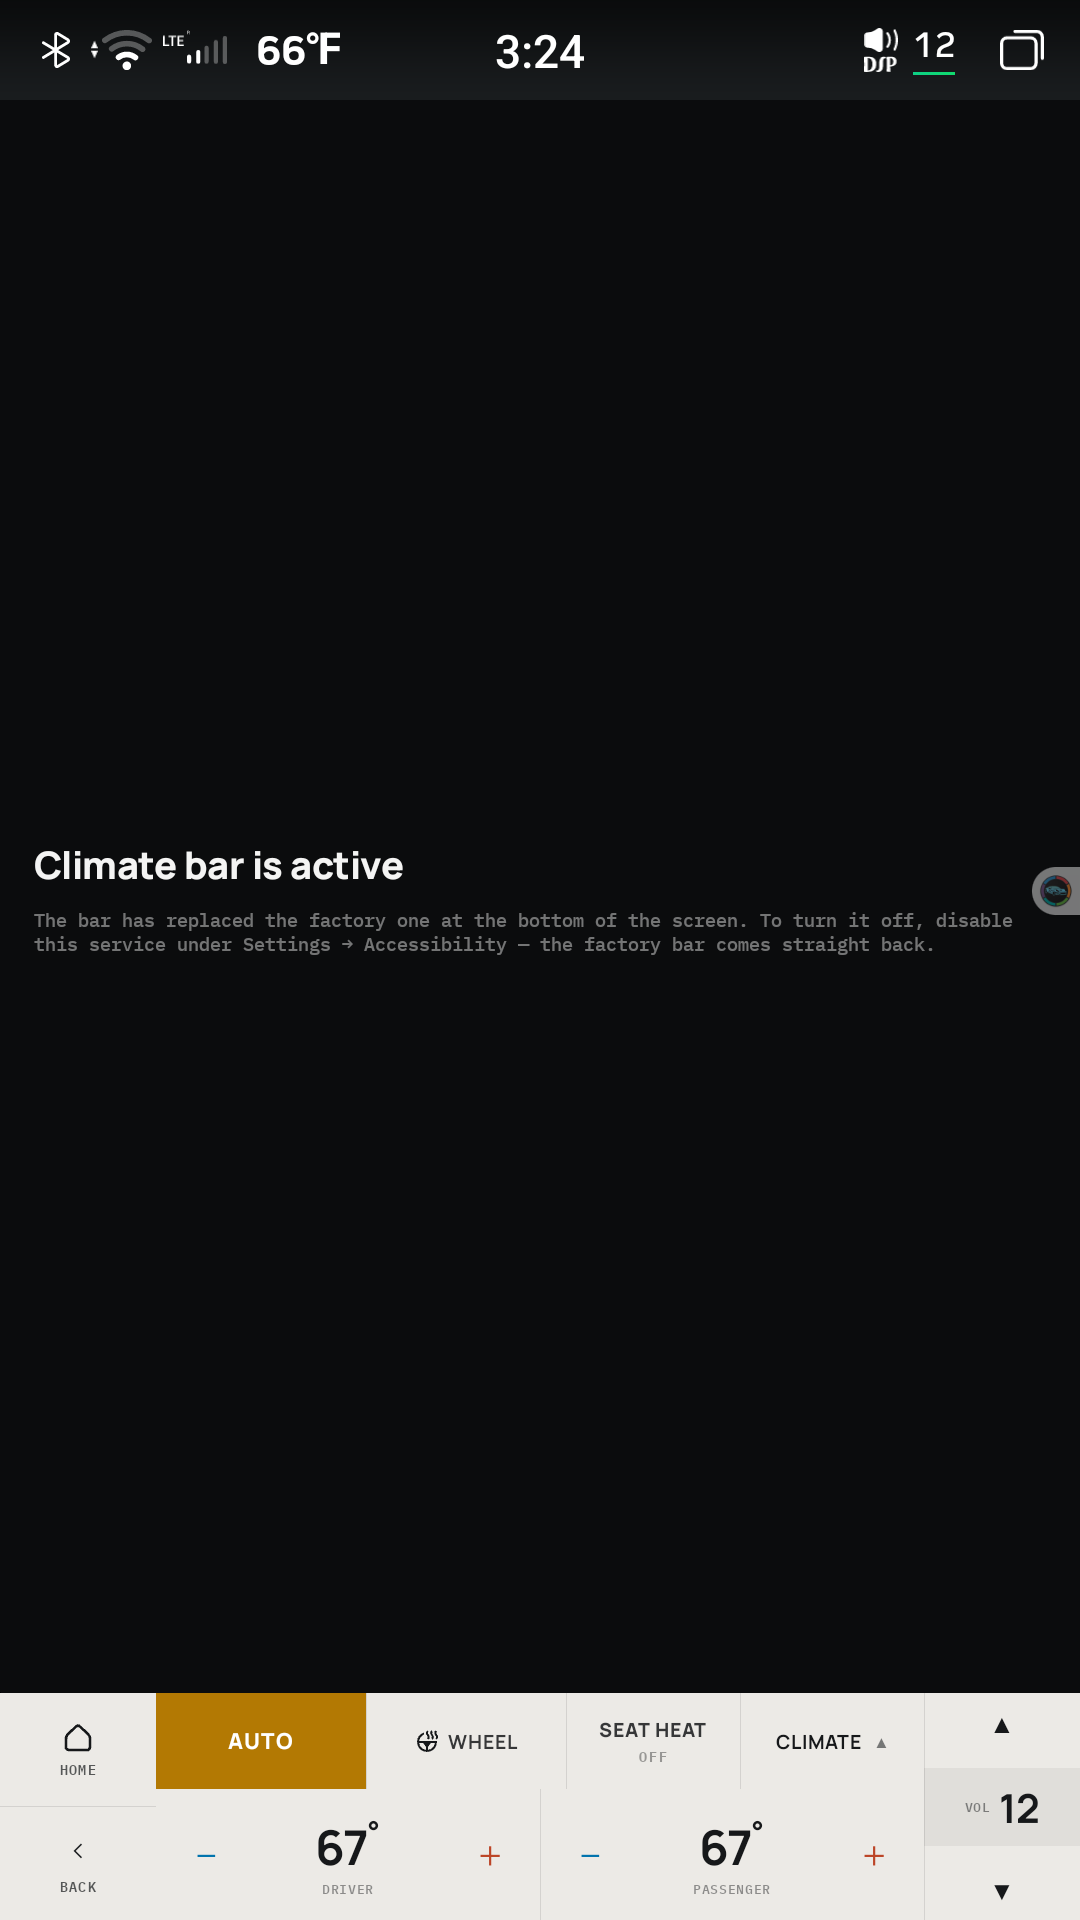
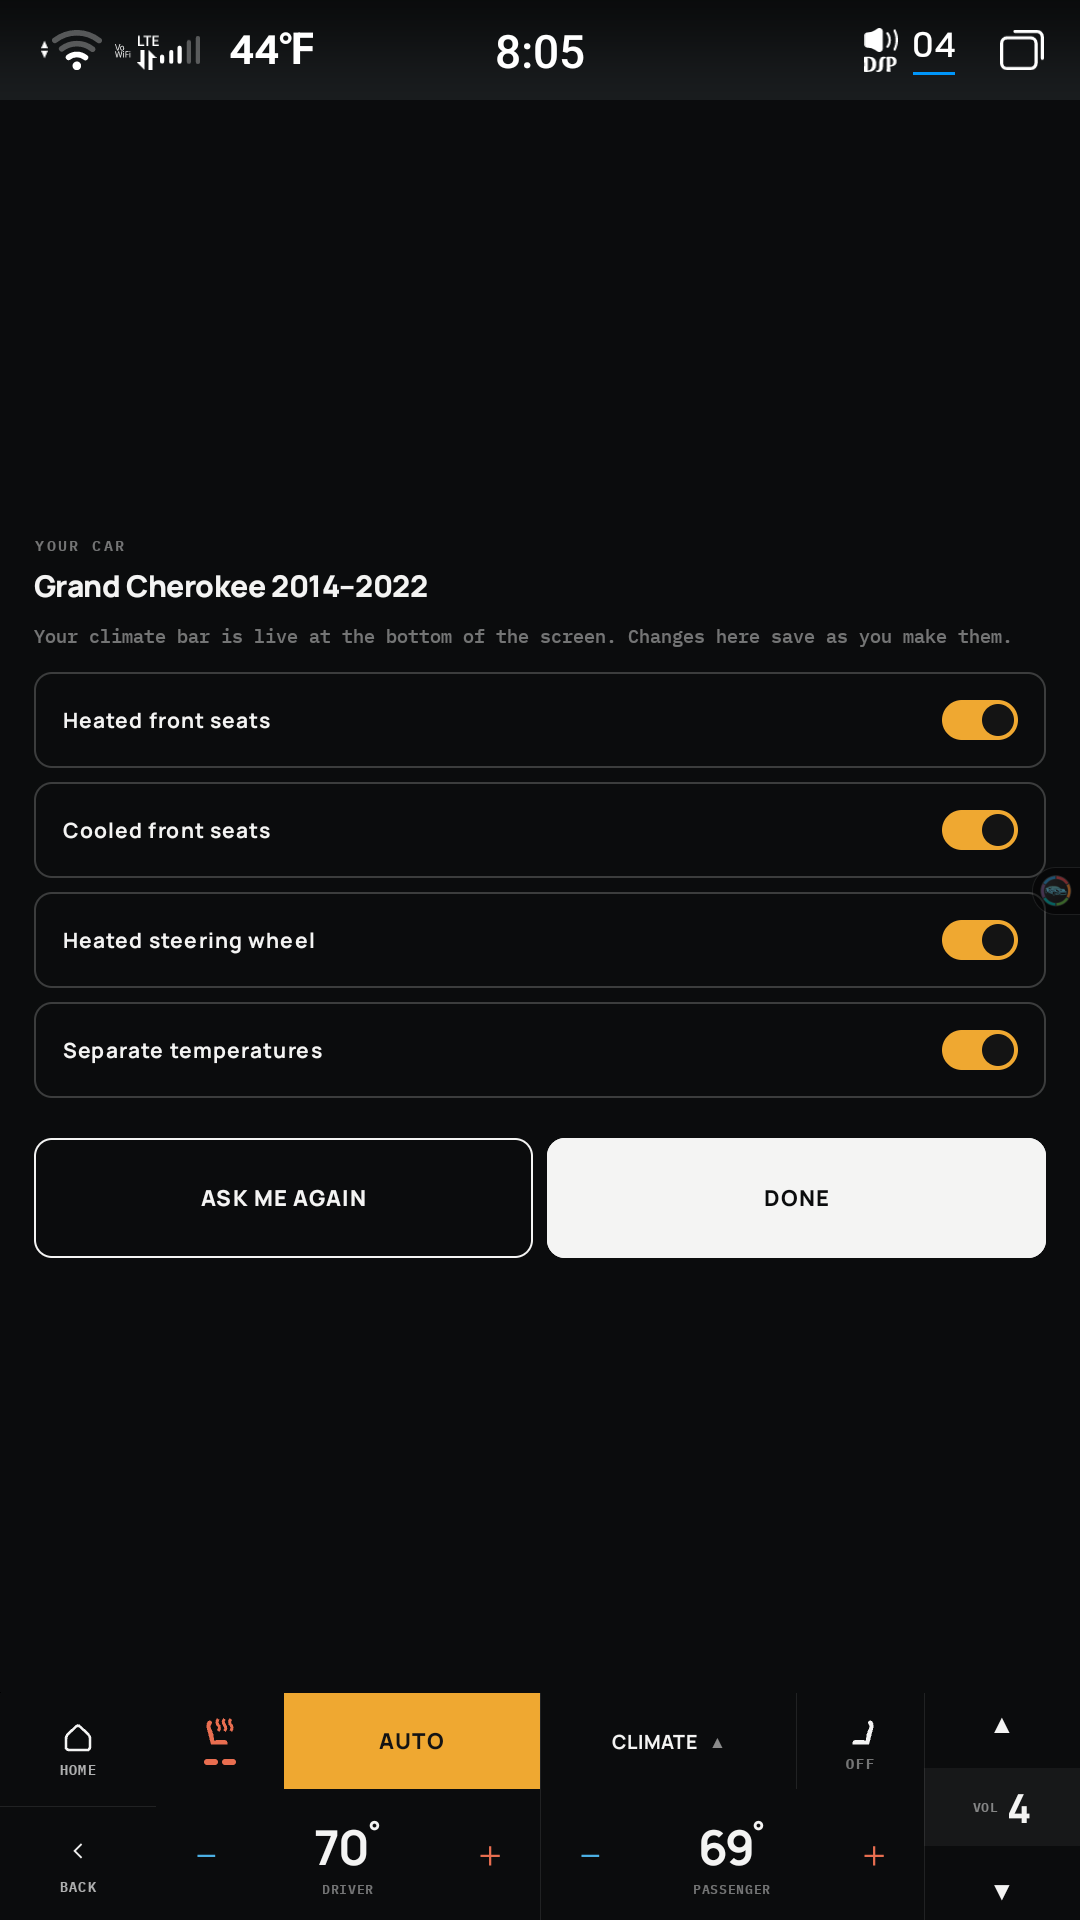
docs: the binder-thread race, the new setup screen, and the verified status

diff --git a/docs/captures/2026-10-27-canbus-id-lost-update.md b/docs/captures/2026-10-27-canbus-id-lost-update.md
@@ -1,0 +1,74 @@
+# A fresh install sat at "Reading your car…": the canbus id was overwritten
+
+First install of the multi-vehicle build on the truck, app data cleared. The
+service bound and every climate signal arrived, but the vehicle status stayed at
+`Waiting` with no bar and no setup. The same build worked on the emulator. It was
+a race in the bus, and it had been there since the first build.
+
+## What the log showed
+
+```
+07:50:28.466 I/ClimateBarService: vehicle: Waiting (no canbus id yet)
+07:50:28.485 I/wk2-bus: canbus id 2687350 (0x290176) base=374 variant=41
+```
+
+The bus received the id, but the store never saw it: no `vehicle.xml`, no
+status change. Clearing the data and rebinding the service repeated the failure
+in 2 of 10 starts. The other 8 reached `NeedsSetup` within about 20 ms.
+
+## Instrumented
+
+Two temporary log lines: the thread behind every `onUpdate`, and whether the
+state still held the id one second after it arrived. `ClimateState.with` only
+ever adds keys, so a missing id can only mean another write replaced the state.
+
+```
+run 1:  NeedsSetup  has id: true   threads=binder_1 binder_2 binder_3 binder_4
+...
+run 6:  Waiting     has id: false  threads=binder_2 binder_3
+run 10: Waiting     has id: false  threads=binder_1 binder_2 binder_3
+```
+
+Run 6, around the id:
+
+```
+DIAG onUpdate m=4 c=2    t=binder:3018_2
+DIAG onUpdate m=7 c=1000 t=binder:3018_3
+DIAG onUpdate m=0 c=40   t=binder:3018_2
+```
+
+## The cause
+
+Each module's callback is its own `Binder`, so `com.syu.ms` replays modules
+0, 4 and 7 into this process on different binder pool threads at the same time.
+The bus folded each update in with
+
+```kotlin
+_state.value = _state.value.with(signal, value)
+```
+
+which is a read and then a write. The module 4 thread read the state, the module
+7 thread wrote the id, and the module 4 thread wrote back its older copy.
+
+## Why it surfaced only now
+
+The race could already drop any signal on dc5c009. There the loss was invisible:
+the re-registration retry re-requests every *expected* signal that has not
+arrived, and the vendor replays its cache on each registration. The canbus id is
+`diagnostic`, so it is never retried, and the head unit sends it once per
+registration. Before multi-vehicle nothing depended on it. Now the whole bar
+does.
+
+## The fix
+
+`MutableStateFlow<ClimateState>.record()` in `ClimateState.kt` uses
+`update { it.with(signal, value) }`, a compare-and-set loop that retries when
+another thread got there first. `RecordTest` releases one thread per signal at
+once; with the old write it lost 23 of 24 signals in its first round.
+
+On the truck, 20 of 20 fresh starts then reached `NeedsSetup`.
+
+## Worth knowing for any client of this IPC
+
+Callbacks from different modules arrive concurrently. Anything they share has to
+be updated atomically, or confined to one thread.

diff --git a/README.md b/README.md
@@ -9,7 +9,7 @@ functions at a 96dp minimum target and moves everything else one tap away onto a
 full-page climate view.
 
 **Status: built and running in the vehicle.** Both screens are implemented,
-reviewed and verified on hardware. 219 tests (152 bus, 55 ui, 12 tools).
+reviewed and verified on hardware. 220 tests (153 bus, 55 ui, 12 tools).
 
 ---
 
@@ -24,17 +24,19 @@ and its caret has flipped to point down, because the same control dismisses it:
 
 ![Screen 1d running on the head unit](docs/screenshots/vehicle-panel.png)
 
-And the one screen that is a normal activity, reached from the launcher icon. It
-exists only to report whether the service is enabled and to deep-link to the
-toggle, because an app cannot grant itself accessibility:
+And the one screen that is a normal activity, reached from the launcher icon.
+Until the service is enabled it says so and deep-links to the toggle, because an
+app cannot grant itself accessibility. After that it names the car the head unit
+reports, asks the one-time setup questions, and then shows the answers as
+switches that can be changed later:
 
 ![The setup screen](docs/screenshots/setup-screen.png)
 
-All three are captured off a running vehicle, not a mockup or an emulator. Every
-value shown is what the car reported: 66&#176;F outside with both zones at 67,
-`SYNC` **un**lit because unlit means synced on this vehicle (the signal is
-`DUAL`, so its polarity is inverted), `AUTO` owning the fan, and seat cooling on
-`HIGH` both sides.
+All three are captured off a running vehicle, not a mockup or an emulator. In
+the first two, every value shown is what the car reported: 66&#176;F outside
+with both zones at 67, `SYNC` **un**lit because unlit means synced on this
+vehicle (the signal is `DUAL`, so its polarity is inverted), `AUTO` owning the
+fan, and seat cooling on `HIGH` both sides.
 
 ---
 
@@ -61,6 +63,11 @@ value shown is what the car reported: 66&#176;F outside with both zones at 67,
   never visited.
 - **There is no cabin-temperature signal at all**, confirmed by decompiling the
   vendor CANBUS app.
+- **Callbacks from different modules arrive at the same time**, each on its own
+  binder thread. A plain read-then-write of the shared state let one module's
+  update erase another's. The retry hid this for climate signals, but the
+  canbus id is sent once and never retried, so it left a fresh install
+  stuck at "Reading your car…" in about one start in five.
 
 Full write-ups, including the failed hypotheses, are in
 [`docs/captures/`](docs/captures/).

diff --git a/docs/superpowers/specs/2026-10-26-multi-vehicle-design.md b/docs/superpowers/specs/2026-10-26-multi-vehicle-design.md
@@ -1,6 +1,6 @@
 # Multi-vehicle support: detect the car, ask once, draw only what it has
 
-**Status:** implemented on `feat/multi-vehicle` (plan: `../plans/2026-10-26-multi-vehicle.md`); awaiting the owner's vehicle pass. Synthesized MAX A/C, the shrinking window and the rear page are later plans.
+**Status:** implemented on `feat/multi-vehicle` (plan: `../plans/2026-10-26-multi-vehicle.md`); verified on the WK2 on 2026-10-27 (fresh install and setup, every control, the cooled-seat answer toggled, an ignition cycle); PR #4. Synthesized MAX A/C, the shrinking window and the rear page are later plans.
 **Builds on:** `2026-09-08-wk2-climate-design.md` (§6 bar, §7 screen 1d) and
 `2026-09-14-seat-buttons-design.md`. Data: `docs/captures/2026-09-09-air-profile-extraction.md`,
 `docs/data/air-command-tables.json`, `docs/data/air-canbus-ids.json`.
